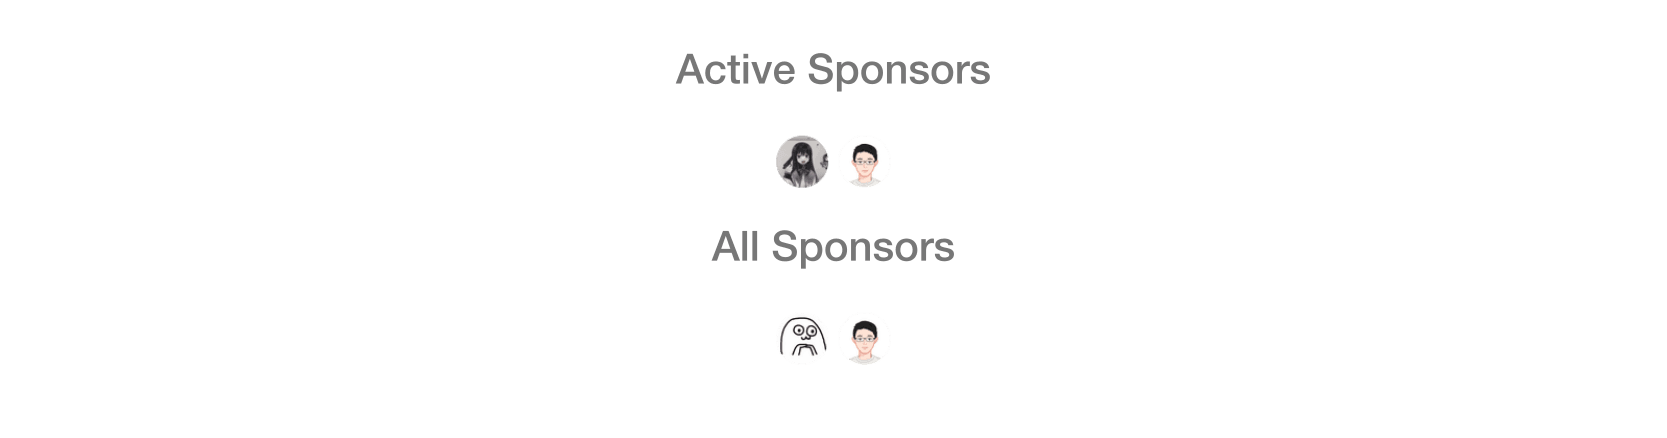
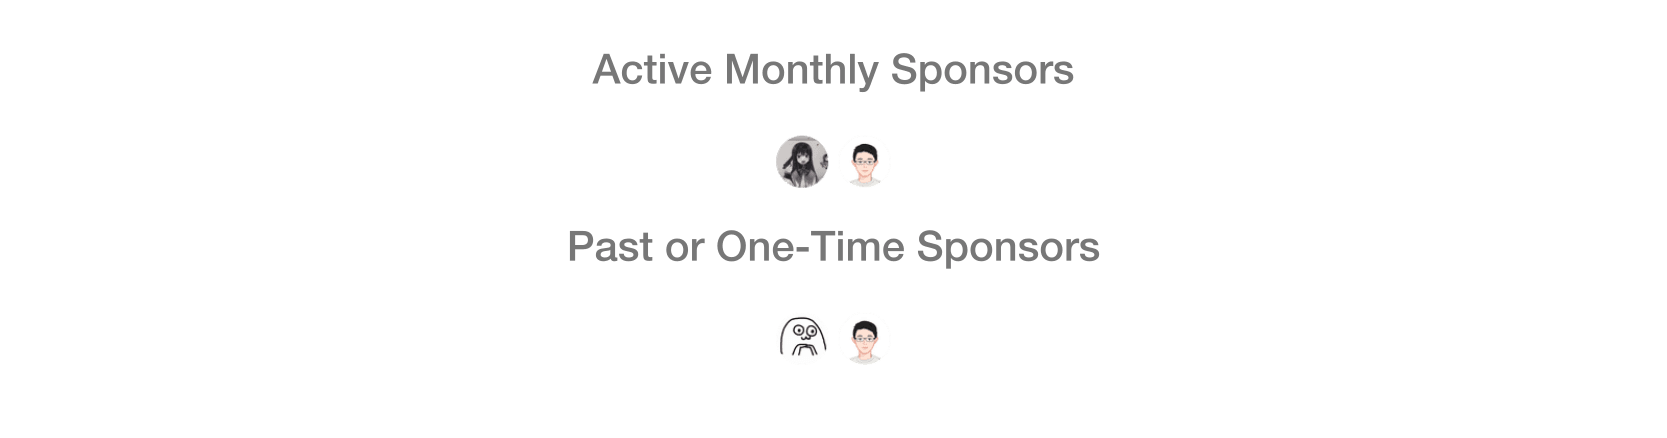
chore: update title

Changed region(s): [[0.3431, 0.1187, 0.6551, 0.2078], [0.3431, 0.5046, 0.6551, 0.6233]]

diff --git a/sponsorkit.config.ts b/sponsorkit.config.ts
@@ -3,11 +3,11 @@ import { defineConfig, tierPresets } from 'sponsorkit'
 export default defineConfig({
   tiers: [
     {
-      title: 'Active Sponsors',
+      title: 'Active Monthly Sponsors',
       preset: tierPresets.xs,
     },
     {
-      title: 'Past Sponsors',
+      title: 'Past or One-Time Sponsors',
       monthlyDollars: -1,
       preset: tierPresets.xs,
     },
